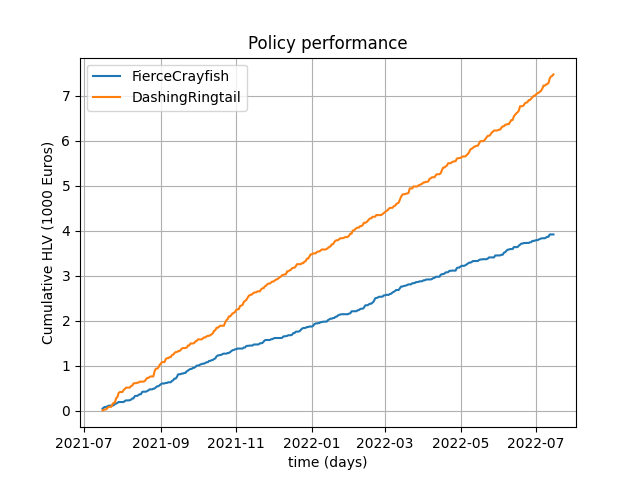
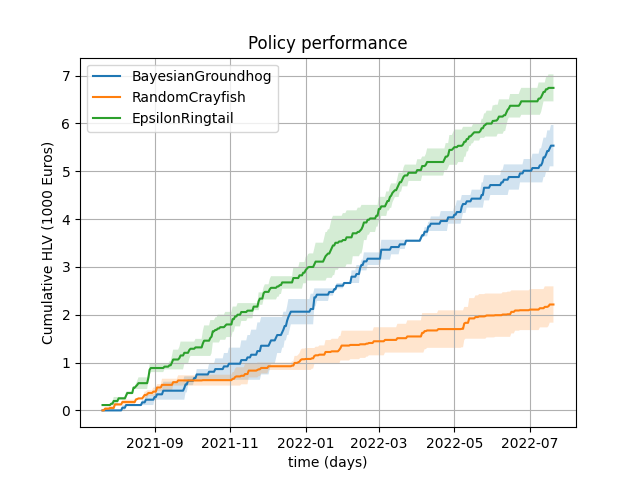
chore: lowered alpha of band for performance plot

diff --git a/app.py b/app.py
@@ -337,7 +337,7 @@ def get_performance_plot(plot_dfs):
         policy["std_u"] = policy["mean_k"] + (policy["std"] / 1000)
         policy["std_l"] = policy["mean_k"] - (policy["std"] / 1000)
 
-        ax.fill_between(policy["ts"], policy["std_l"], policy["std_u"])
+        ax.fill_between(policy["ts"], policy["std_l"], policy["std_u"], alpha=0.2)
         ax.plot(policy["ts"], policy["mean_k"], label=policy_name)
 
     ax.set(xlabel='time (days)', ylabel='Cumulative HLV (1000 Euros)',

diff --git a/simulator.py b/simulator.py
@@ -235,7 +235,7 @@ if __name__ == "__main__":
         policy["std_u"] = policy["mean_k"] + (policy["std"] /1000)
         policy["std_l"] = policy["mean_k"] - (policy["std"] /1000)
 
-        ax.fill_between(policy["ts"], policy["std_l"], policy["std_u"])
+        ax.fill_between(policy["ts"], policy["std_l"], policy["std_u"], alpha=0.2)
         ax.plot(policy["ts"], policy["mean_k"], label=policy_name)
 
     ax.set(xlabel='time (days)', ylabel='Cumulative HLV (1000 Euros)',
